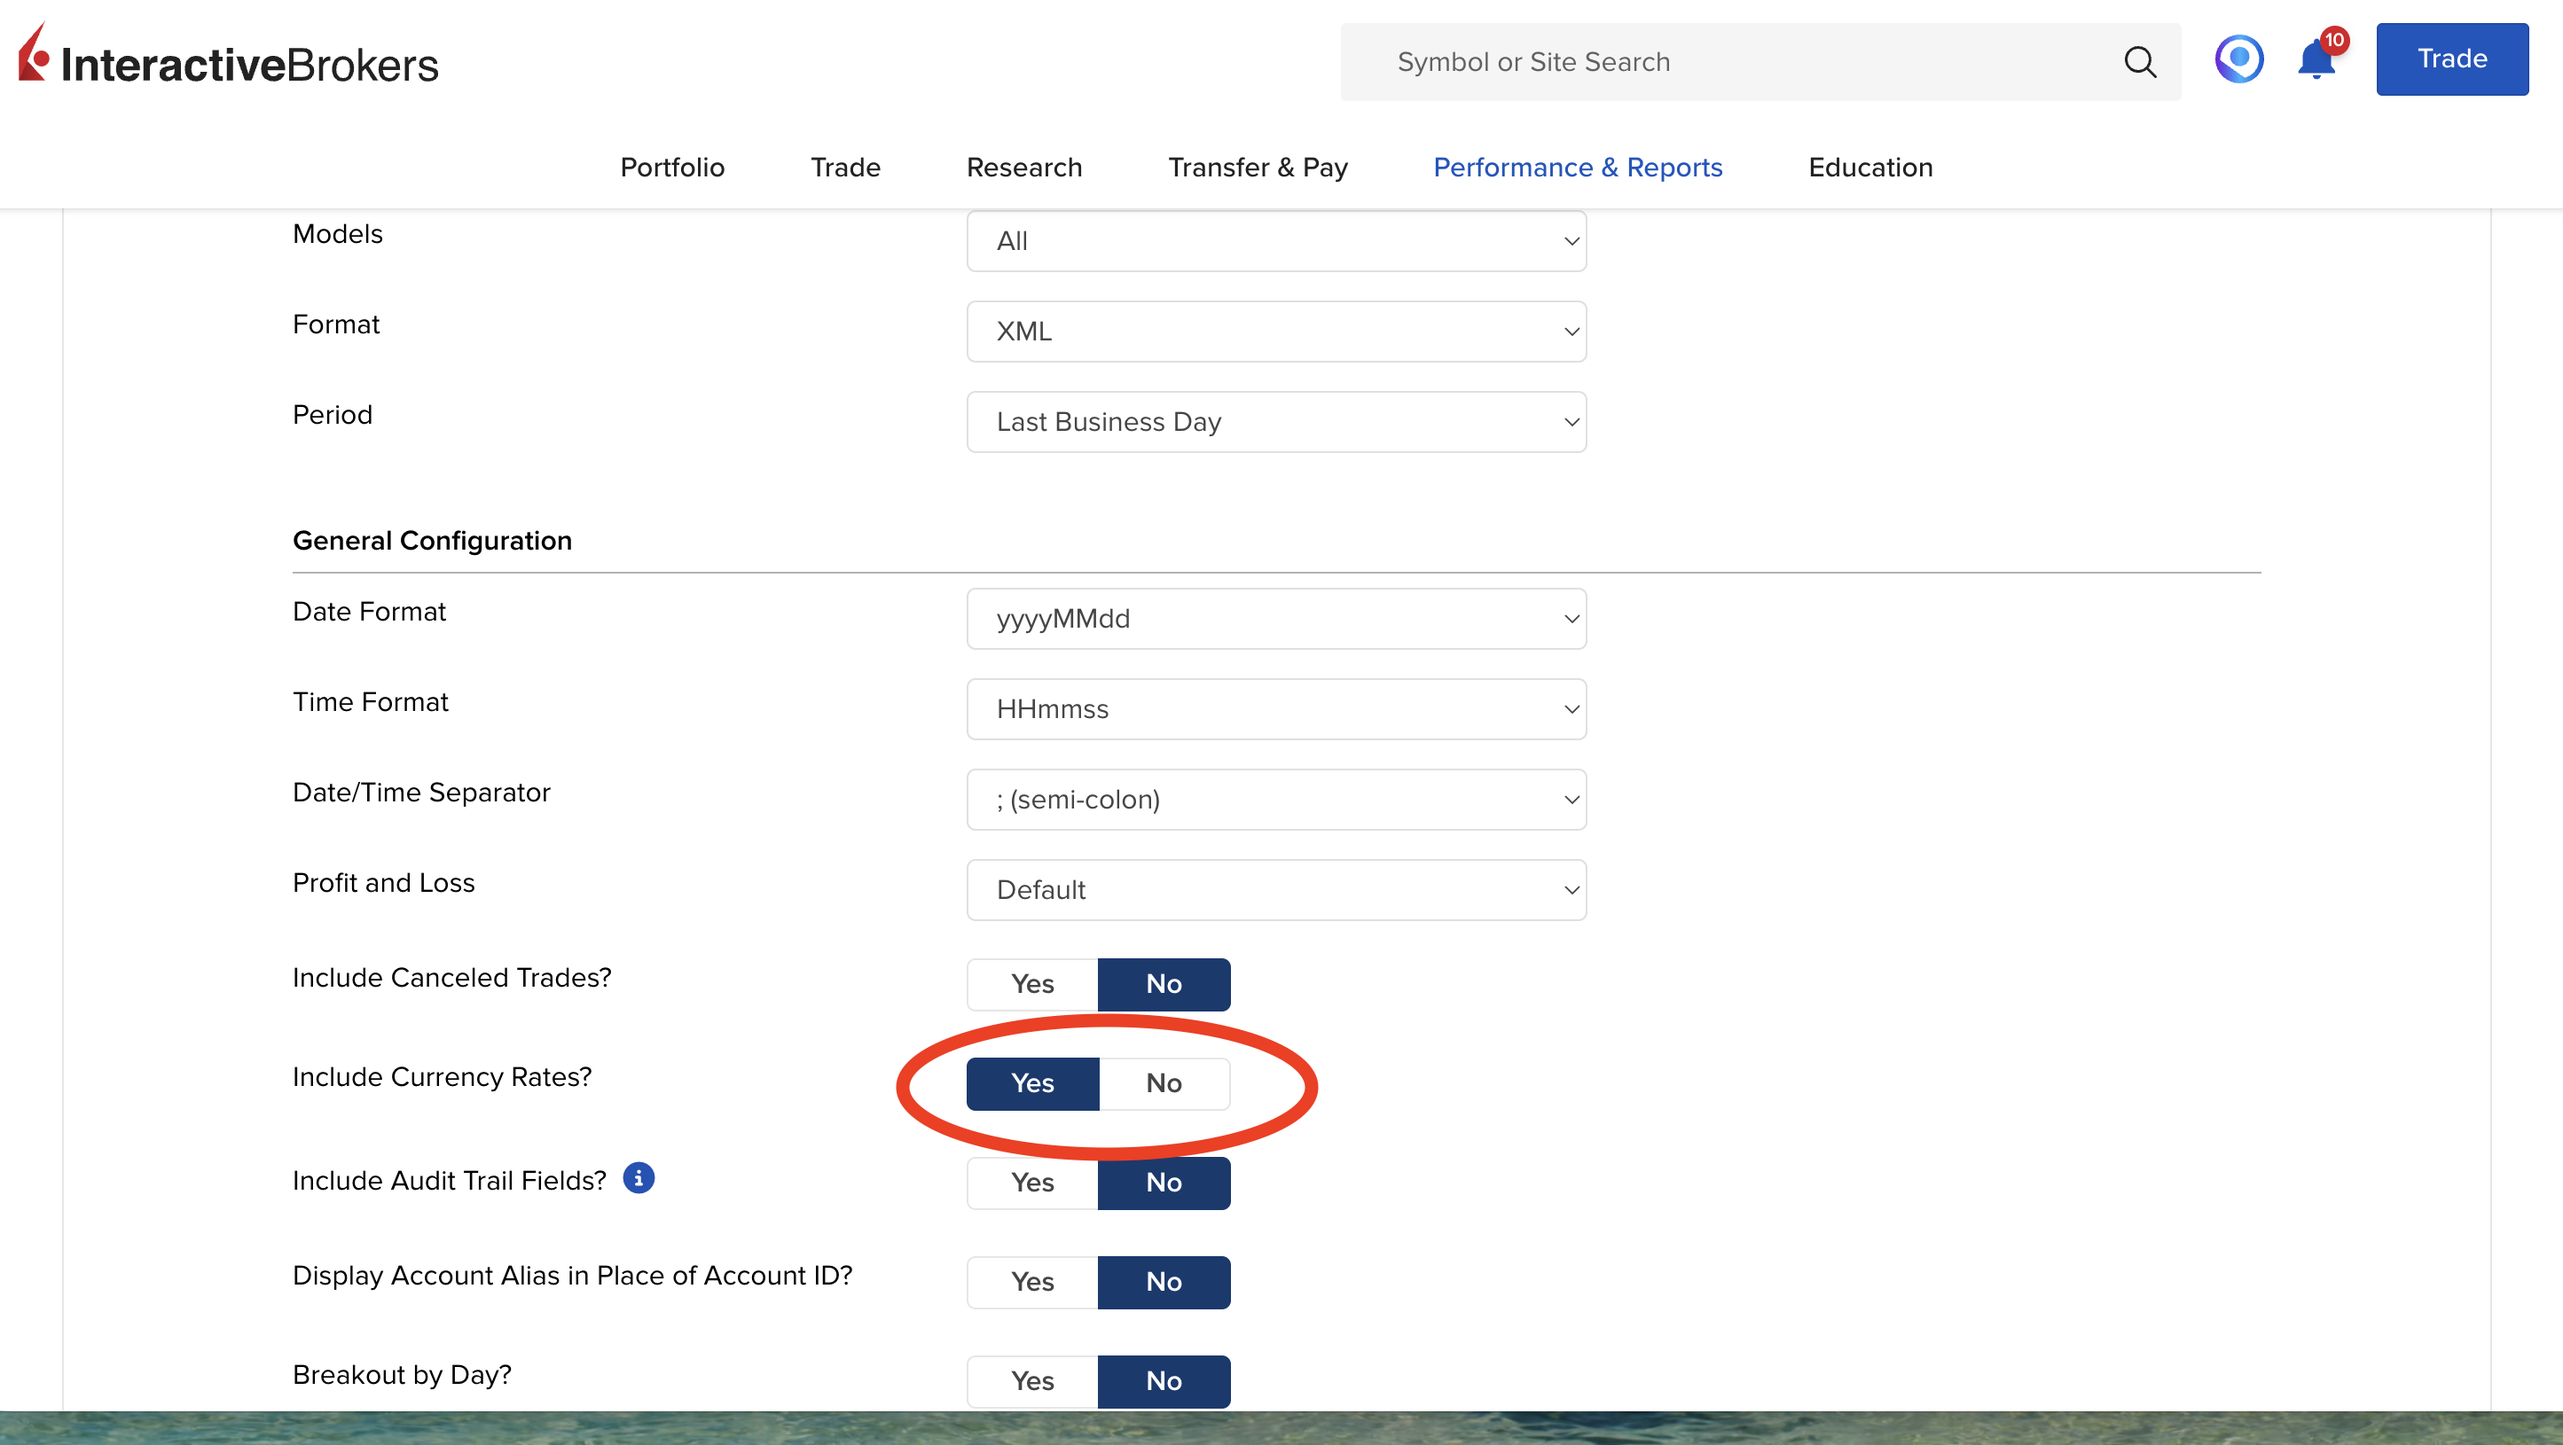
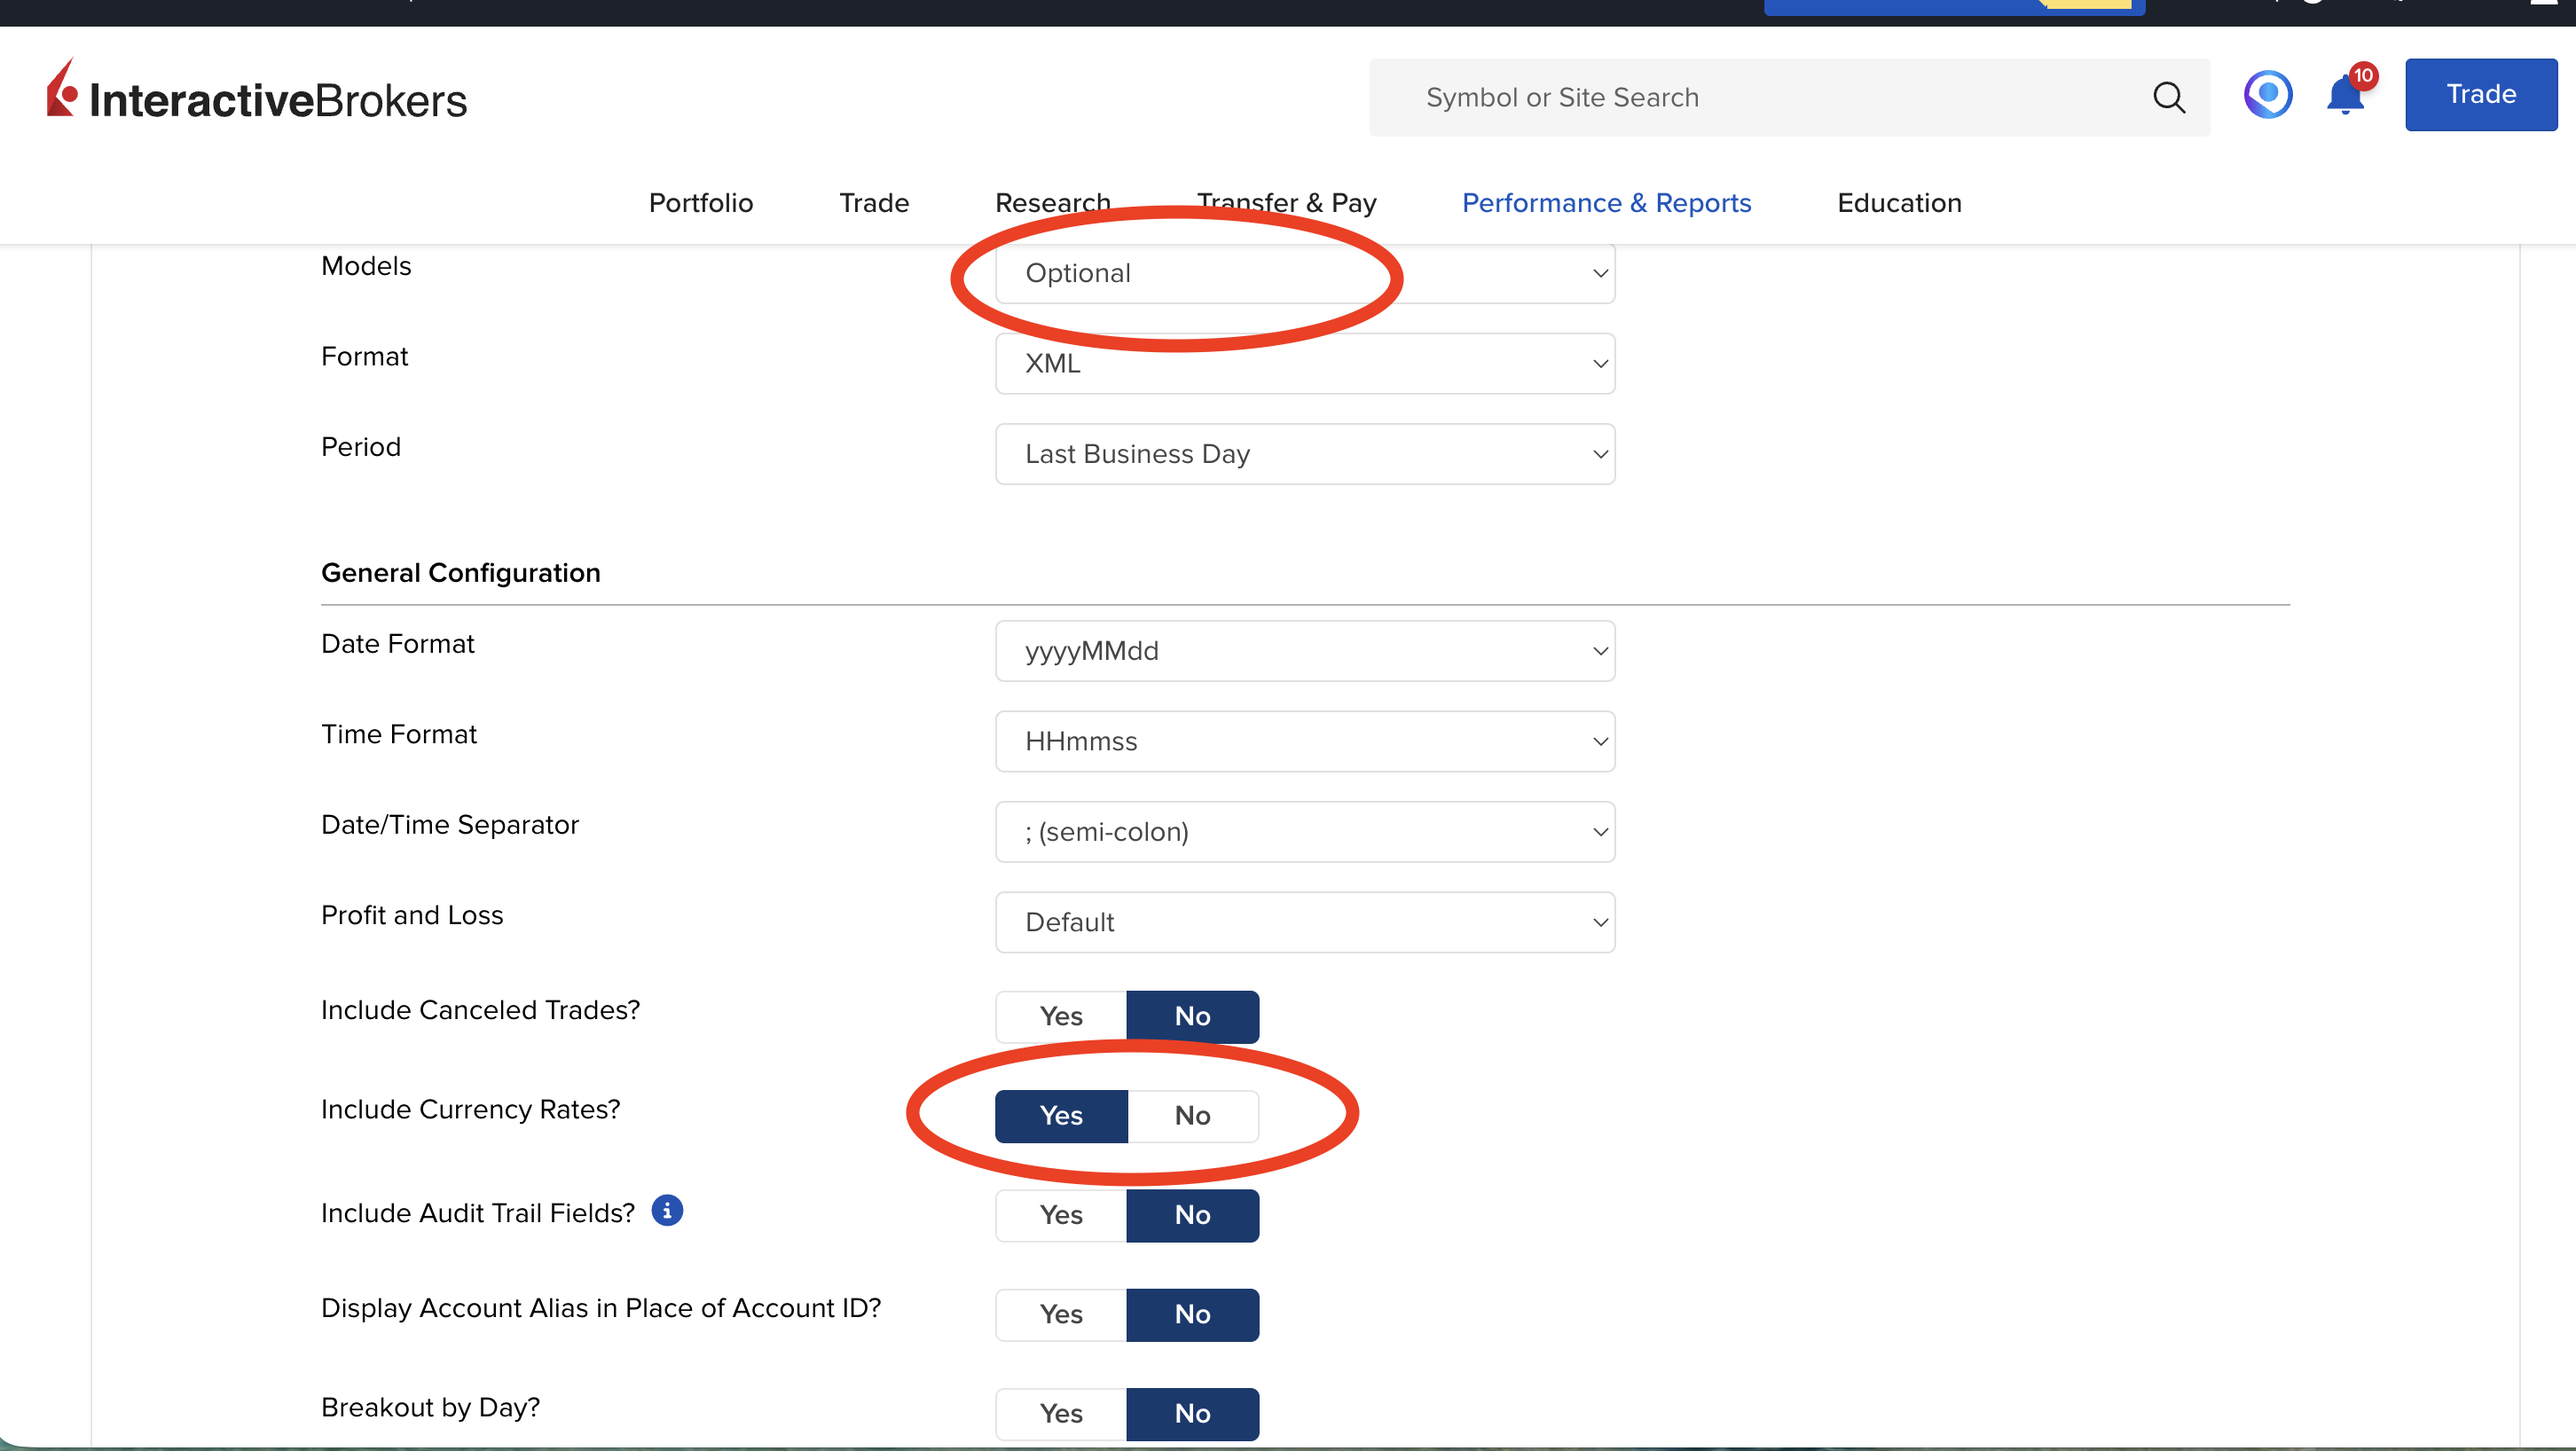
chore: edited instructions

diff --git a/app/components/Instructions.tsx b/app/components/Instructions.tsx
@@ -24,11 +24,11 @@ export default function Instructions() {
             image: "/images/guide/5.png"
         },
         {
-            text: "V nastavení reportu vyberte v sekci Sections položky 'Net Asset Value' a 'Open Positions' (vybrat všechny sloupce Select All)",
+            text: "V nastavení reportu vyberte v sekci Sections položky 'Net Asset Value', 'Open Positions'. V Open Positions UJISTĚTE SE, že máte vybrané sloupce: 'Quantity', 'Mark Price', 'Value', 'Cost Basis Price', 'Total Unrealized PNL' (nejlépe Select All).",
             image: "/images/guide/6.png"
         },
         {
-            text: "Dole v nastavení zaškrtněte 'Include Currency Rates'",
+            text: "Dole v nastavení Models zvolte Optional a zaškrtněte 'Include Currency Rates'",
             image: "/images/guide/7.png"
         },
         {
